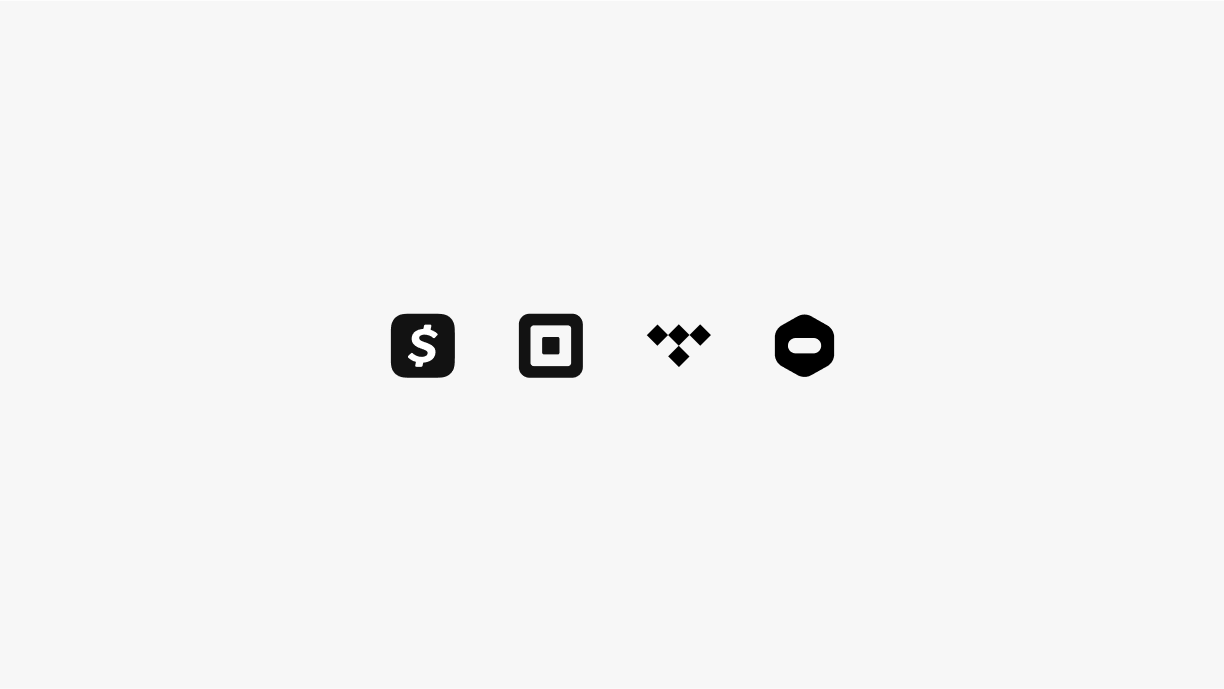
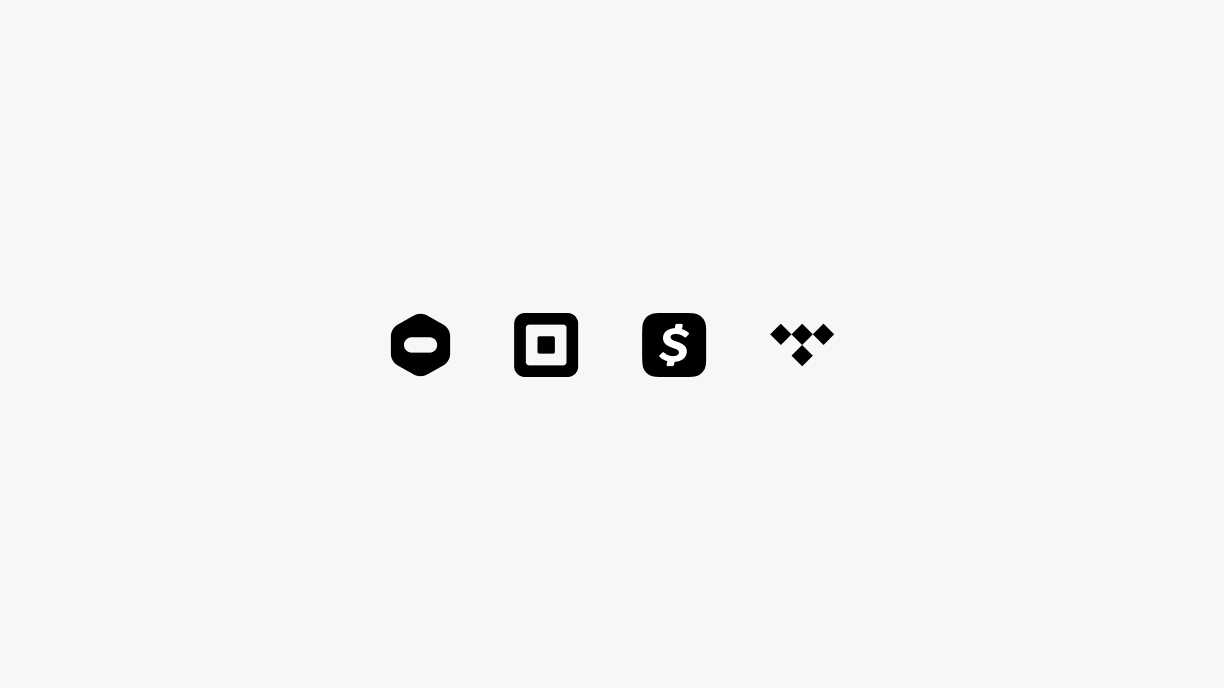
update

Changed region(s): [[0.4036, 0.4578, 0.5899, 0.5494], [0.6209, 0.4578, 0.683, 0.5494], [0.3105, 0.4578, 0.3725, 0.5494]]

diff --git a/work/block/index.html b/work/block/index.html
@@ -38,7 +38,7 @@ title: Proto
       <section>
         <div class="col-8 gap-12">
           <img src="/img/work/proto/04@2x.png" loading="lazy" data-zoomable>
-          <p class="caption">I taught myself design by redrawing early versions of the Square website and Point of Sale product. Seeing the Proto logo alongside the rest of the Block portfolio was a full circle moment.</p>
+					<p class="caption">The Proto logo alongside the rest of the Block portfolio.</p>
         </div>
       </section>
       <section>
